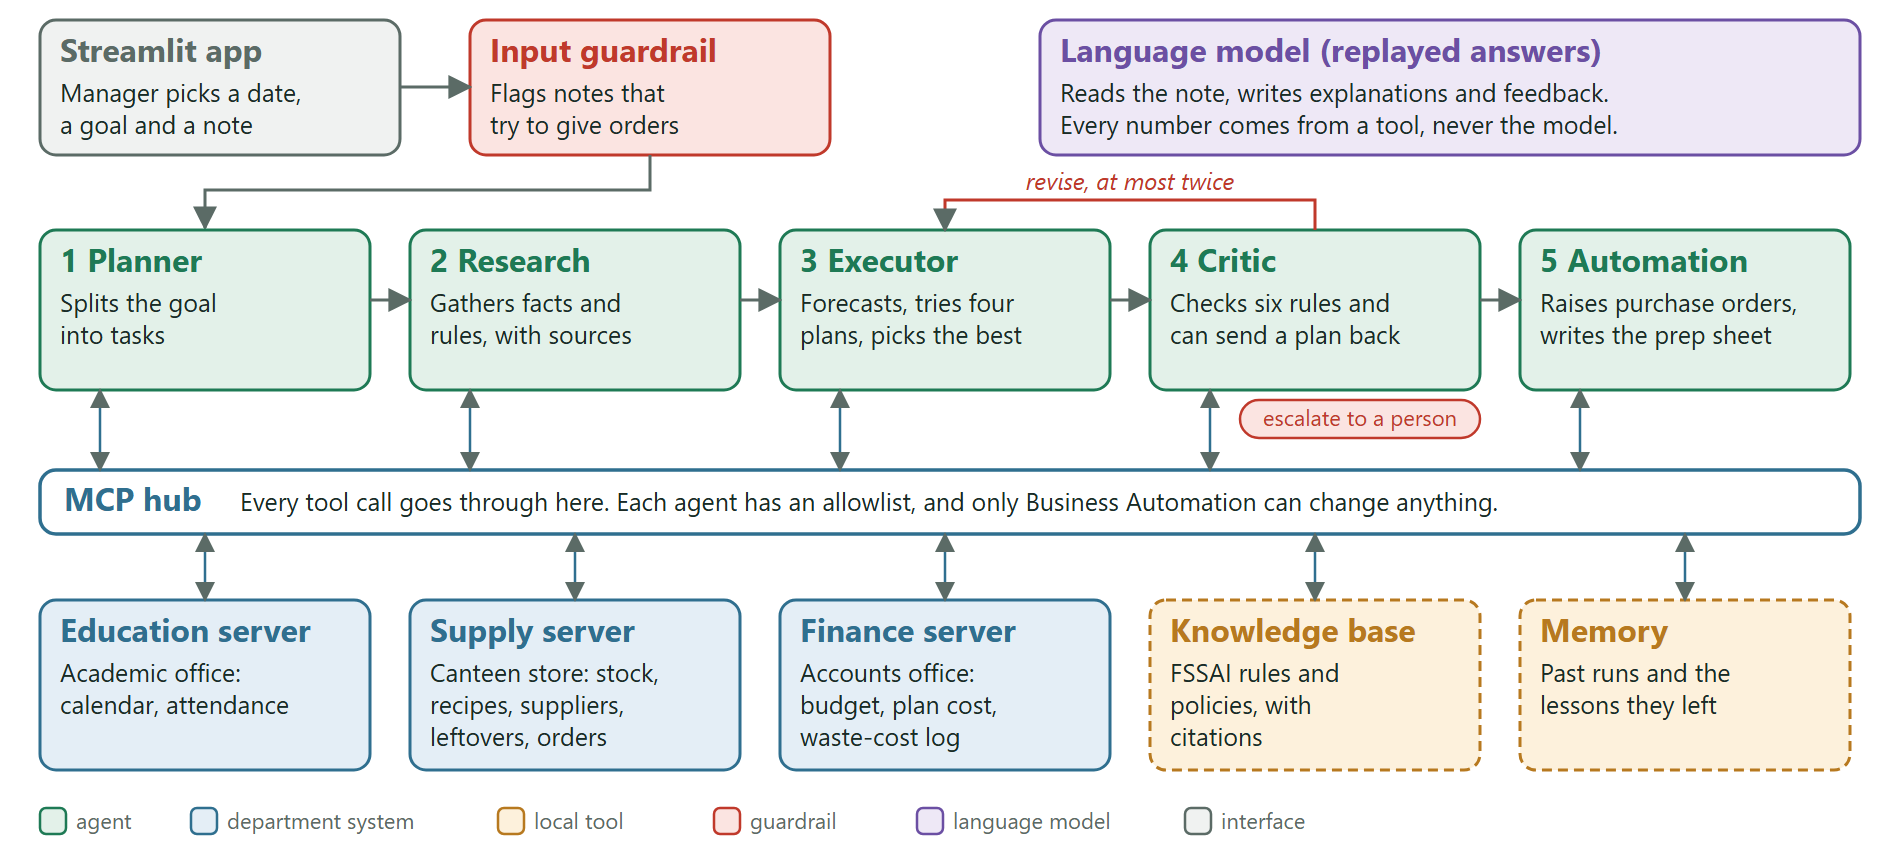
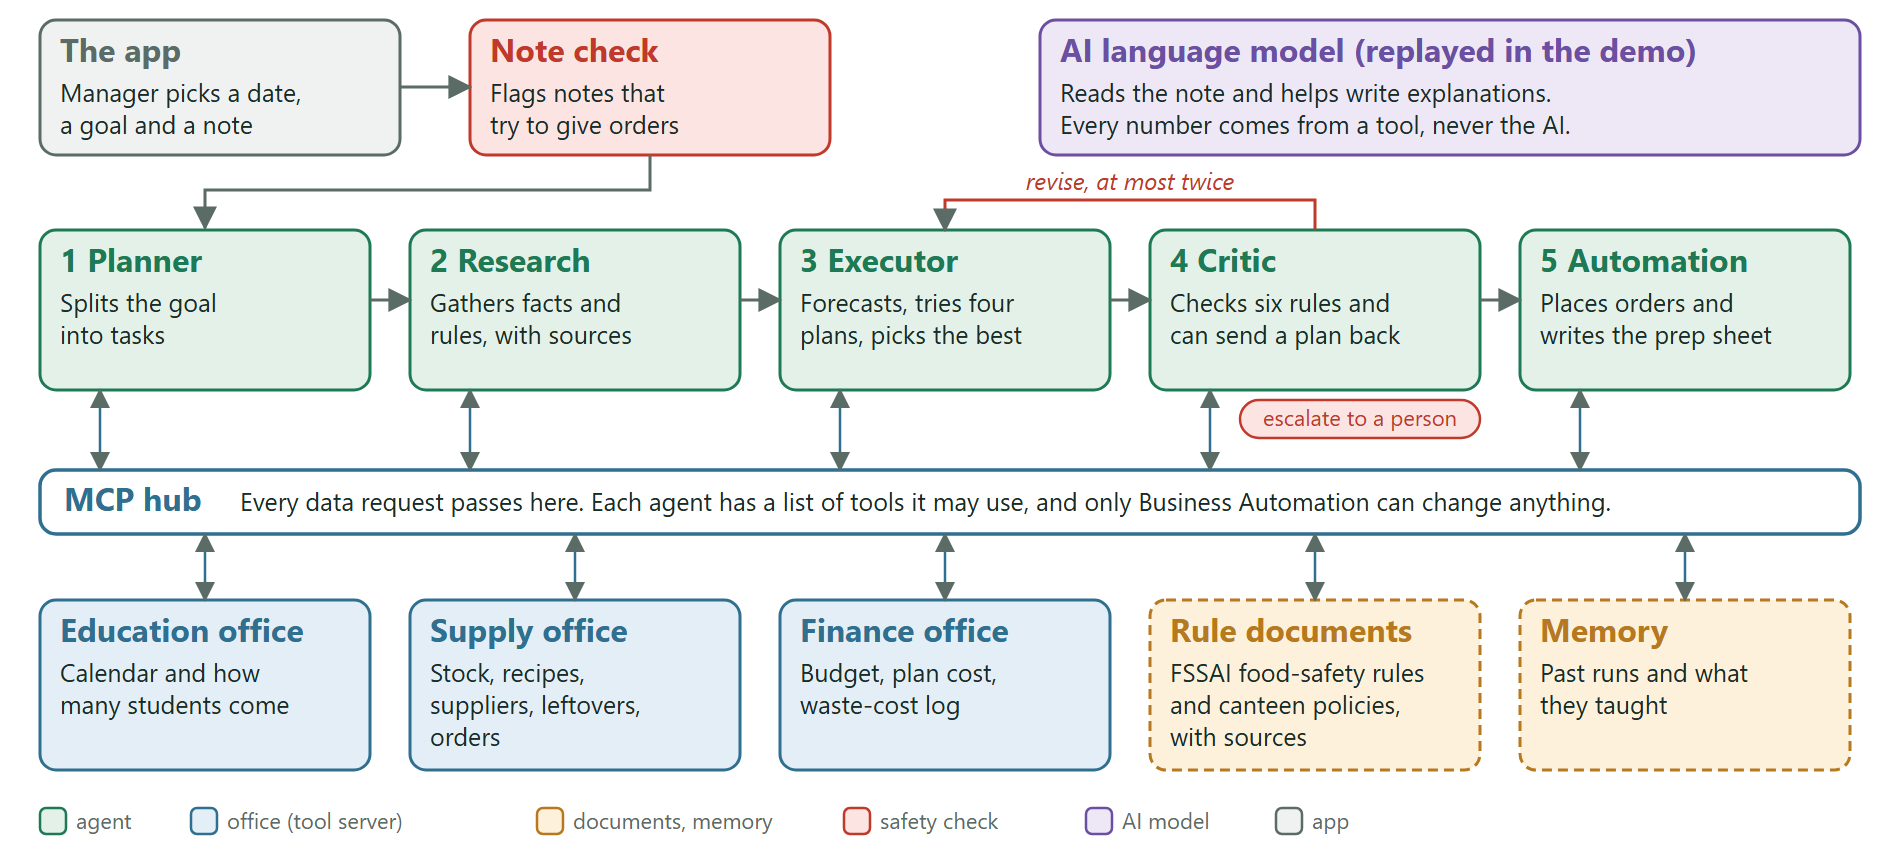
docs(diagrams): use plainer words in the slide diagram
Same parts and layout. The app, note check, offices, rule documents and AI model now have names that are easy to read on a slide.

diff --git a/docs/diagrams/build_architecture_slide.py b/docs/diagrams/build_architecture_slide.py
@@ -1,8 +1,8 @@
 """Draw a simplified, large-text version of the architecture diagram for slides, as SVG and PNG.
 
 The full diagram (build_architecture.py) is meant to be read on paper or zoomed on screen. On a slide its
-text would be far too small, so this version keeps the same parts (agents, MCP hub, department servers,
-local tools, guardrail, language model) with fewer words and bigger type.
+text would be far too small, so this version keeps the same parts (agents, MCP hub, offices as tool servers,
+rule documents, memory, note check, AI model) with fewer words, bigger type and plainer names.
 
 Run:  .venv\\Scripts\\python docs\\diagrams\\build_architecture_slide.py
 """
@@ -52,11 +52,11 @@ def arrow(d, colour=MUTED, width=3, both=False):
 
 
 # ---- row 1: entry, guardrail, language model
-box(40, 20, 360, 135, UI, "Streamlit app", ["Manager picks a date,", "a goal and a note"])
-box(470, 20, 360, 135, GUARD, "Input guardrail", ["Flags notes that", "try to give orders"])
+box(40, 20, 360, 135, UI, "The app", ["Manager picks a date,", "a goal and a note"])
+box(470, 20, 360, 135, GUARD, "Note check", ["Flags notes that", "try to give orders"])
 box(
-    1040, 20, 820, 135, MODEL, "Language model (replayed answers)",
-    ["Reads the note, writes explanations and feedback.", "Every number comes from a tool, never the model."],
+    1040, 20, 820, 135, MODEL, "AI language model (replayed in the demo)",
+    ["Reads the note and helps write explanations.", "Every number comes from a tool, never the AI."],
 )  # fmt: skip
 arrow("M400,87 L470,87")
 arrow("M650,155 L650,190 L205,190 L205,228")
@@ -69,7 +69,7 @@ agents = [
     ("2  Research", ["Gathers facts and", "rules, with sources"]),
     ("3  Executor", ["Forecasts, tries four", "plans, picks the best"]),
     ("4  Critic", ["Checks six rules and", "can send a plan back"]),
-    ("5  Automation", ["Raises purchase orders,", "writes the prep sheet"]),
+    ("5  Automation", ["Places orders and", "writes the prep sheet"]),
 ]
 for x, (title, lines) in zip(AX, agents):
     box(x, AY, AW, AH, AGENT, title, lines)
@@ -102,7 +102,7 @@ parts.append(
 )
 parts.append(f'<text x="64" y="{HY + 41}" class="t" fill="{SERVER[1]}">MCP hub</text>')
 parts.append(
-    f'<text x="240" y="{HY + 41}" class="b">Every tool call goes through here. Each agent has an allowlist, '
+    f'<text x="240" y="{HY + 41}" class="b">Every data request passes here. Each agent has a list of tools it may use, '
     f"and only Business Automation can change anything.</text>"
 )
 for x in AX:
@@ -110,15 +110,15 @@ for x in AX:
 
 # ---- row 4: department servers and local tools
 SY, SH = 600, 170
-box(40, SY, 330, SH, SERVER, "Education server", ["Academic office:", "calendar, attendance"])
+box(40, SY, 330, SH, SERVER, "Education office", ["Calendar and how", "many students come"])
 box(
     410,
     SY,
     330,
     SH,
     SERVER,
-    "Supply server",
-    ["Canteen store: stock,", "recipes, suppliers,", "leftovers, orders"],
+    "Supply office",
+    ["Stock, recipes,", "suppliers, leftovers,", "orders"],
 )
 box(
     780,
@@ -126,8 +126,8 @@ box(
     330,
     SH,
     SERVER,
-    "Finance server",
-    ["Accounts office:", "budget, plan cost,", "waste-cost log"],
+    "Finance office",
+    ["Budget, plan cost,", "waste-cost log"],
 )
 box(
     1150,
@@ -135,17 +135,17 @@ box(
     330,
     SH,
     LOCAL,
-    "Knowledge base",
-    ["FSSAI rules and", "policies, with", "citations"],
+    "Rule documents",
+    ["FSSAI food-safety rules", "and canteen policies,", "with sources"],
     dashed=True,
 )
-box(1520, SY, 330, SH, LOCAL, "Memory", ["Past runs and the", "lessons they left"], dashed=True)
+box(1520, SY, 330, SH, LOCAL, "Memory", ["Past runs and what", "they taught"], dashed=True)
 for cx in (205, 575, 945, 1315, 1685):
     arrow(f"M{cx},{HY + HH} L{cx},{SY}", SERVER[1], 2.5, both=True)
 
 # ---- legend
-legend = [(AGENT, "agent"), (SERVER, "department system"), (LOCAL, "local tool"), (GUARD, "guardrail"),
-          (MODEL, "language model"), (UI, "interface")]  # fmt: skip
+legend = [(AGENT, "agent"), (SERVER, "office (tool server)"), (LOCAL, "documents, memory"), (GUARD, "safety check"),
+          (MODEL, "AI model"), (UI, "app")]  # fmt: skip
 x = 40
 for colour, text in legend:
     parts.append(
